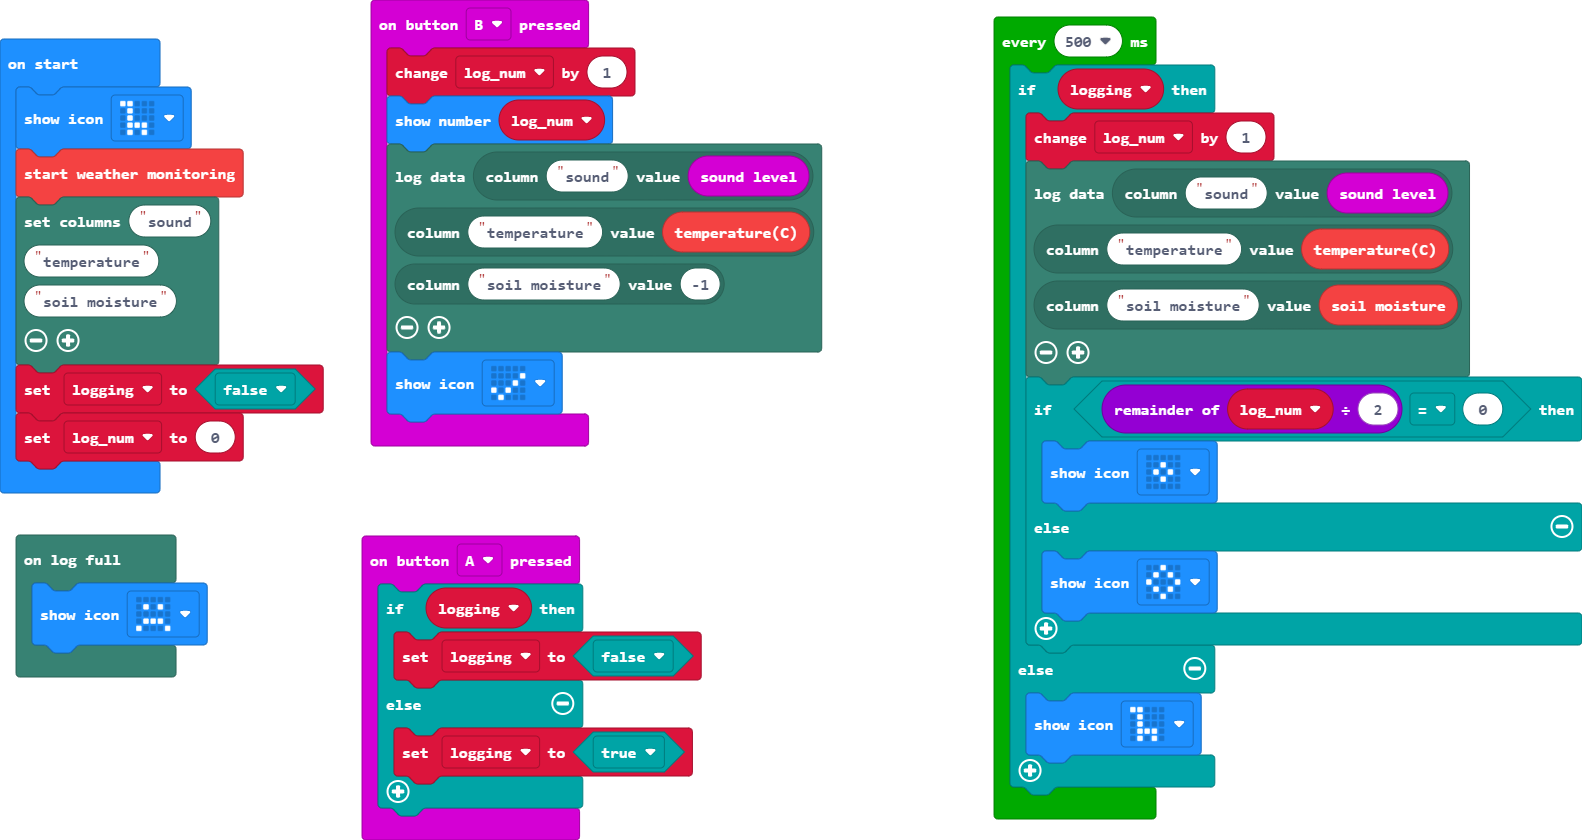
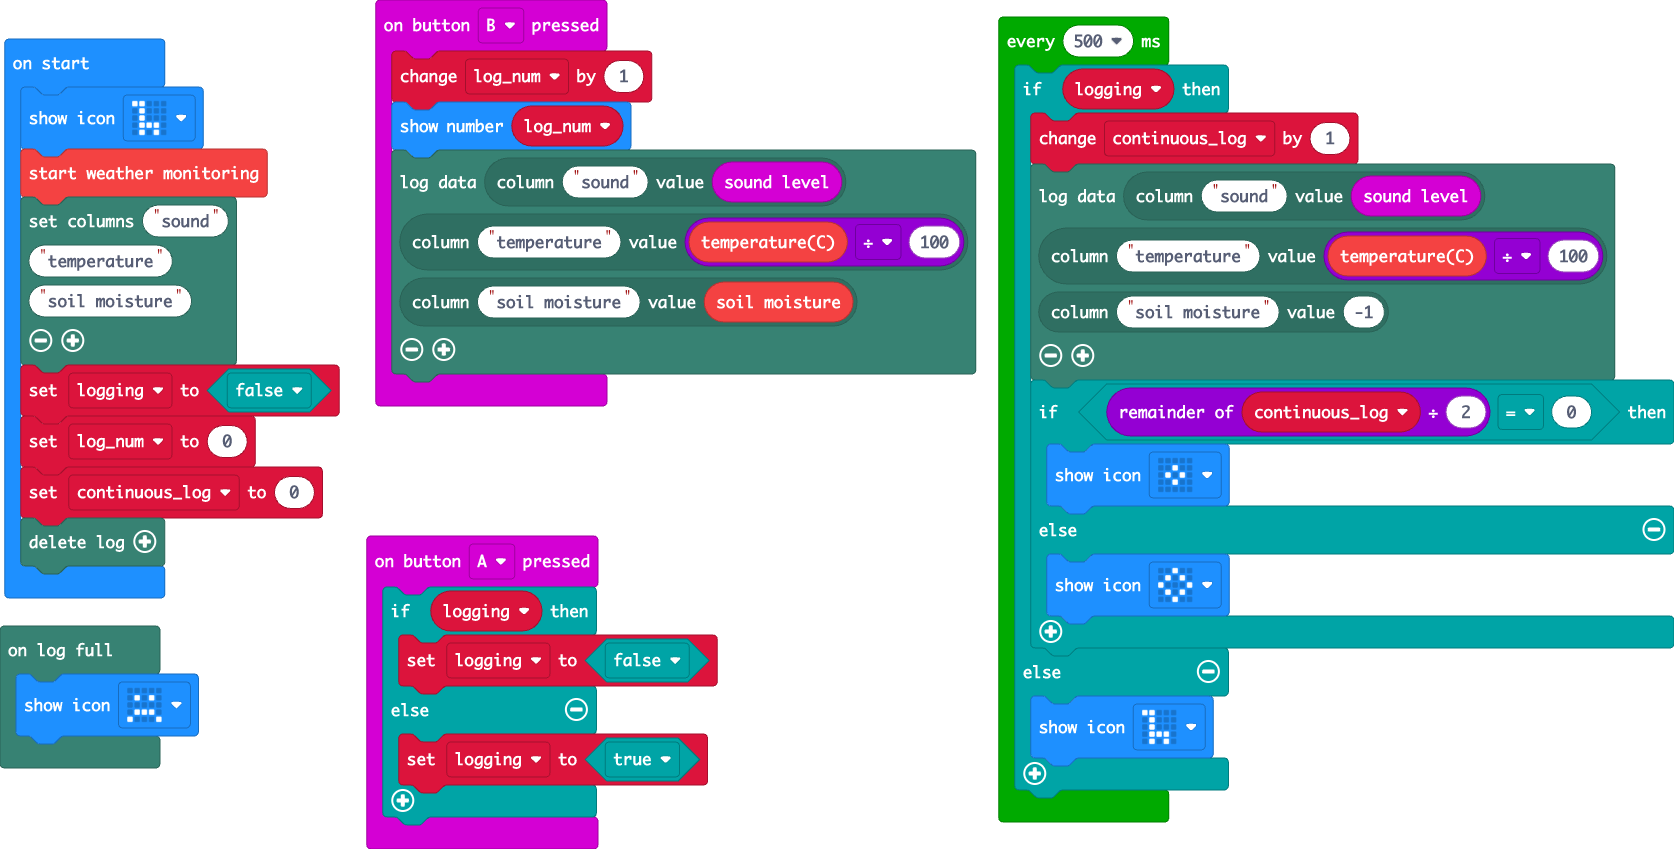
Update main.blocks, main.ts

diff --git a/main.ts b/main.ts
@@ -13,10 +13,9 @@ input.onButtonPressed(Button.B, function () {
     basic.showNumber(log_num)
     datalogger.log(
     datalogger.createCV("sound", input.soundLevel()),
-    datalogger.createCV("temperature", weatherbit.temperature()),
-    datalogger.createCV("soil moisture", -1)
+    datalogger.createCV("temperature", weatherbit.temperature() / 100),
+    datalogger.createCV("soil moisture", weatherbit.soilMoisture())
     )
-    basic.showIcon(IconNames.Yes)
 })
 let log_num = 0
 let logging = false
@@ -29,15 +28,17 @@ datalogger.setColumnTitles(
 )
 logging = false
 log_num = 0
+let continuous_log = 0
+datalogger.deleteLog()
 loops.everyInterval(500, function () {
     if (logging) {
-        log_num += 1
+        continuous_log += 1
         datalogger.log(
         datalogger.createCV("sound", input.soundLevel()),
-        datalogger.createCV("temperature", weatherbit.temperature()),
-        datalogger.createCV("soil moisture", weatherbit.soilMoisture())
+        datalogger.createCV("temperature", weatherbit.temperature() / 100),
+        datalogger.createCV("soil moisture", -1)
         )
-        if (log_num % 2 == 0) {
+        if (continuous_log % 2 == 0) {
             basic.showIcon(IconNames.SmallDiamond)
         } else {
             basic.showIcon(IconNames.Diamond)
